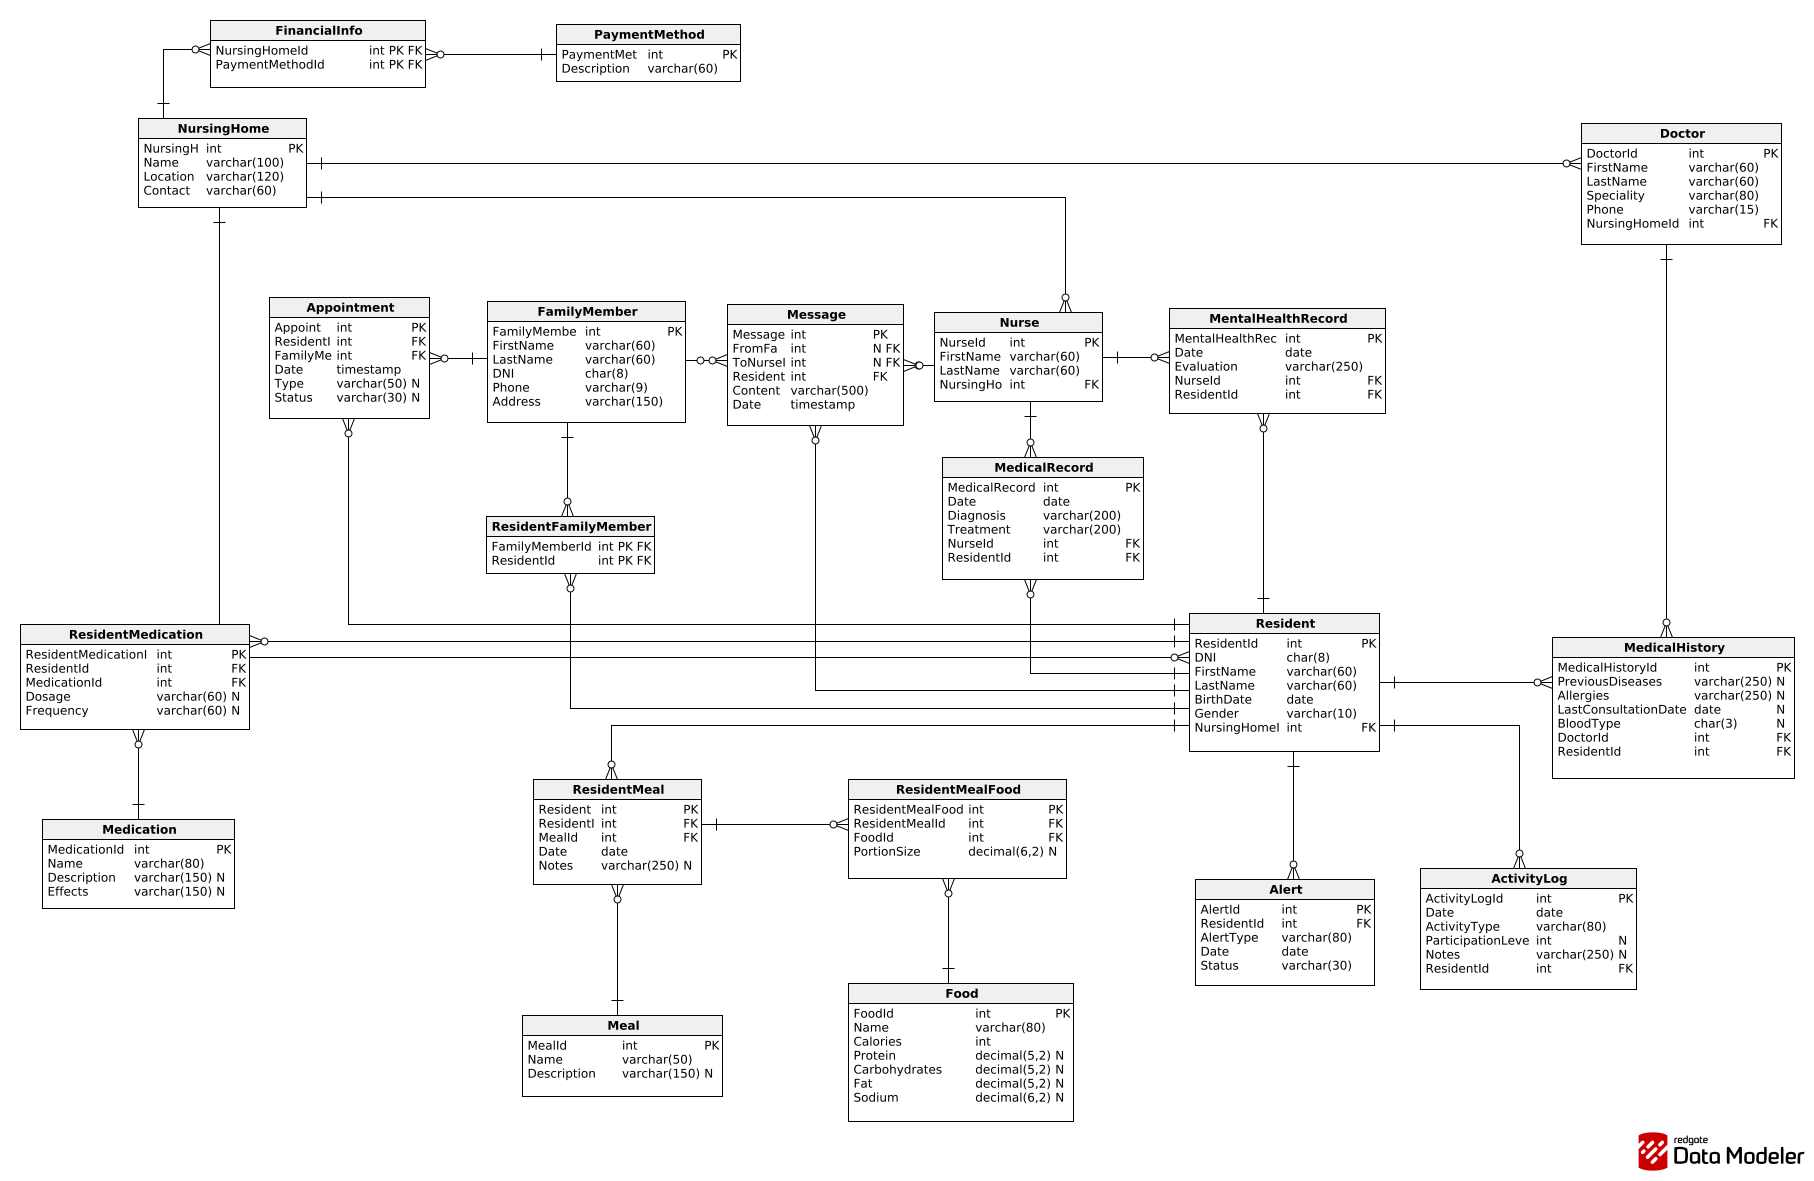
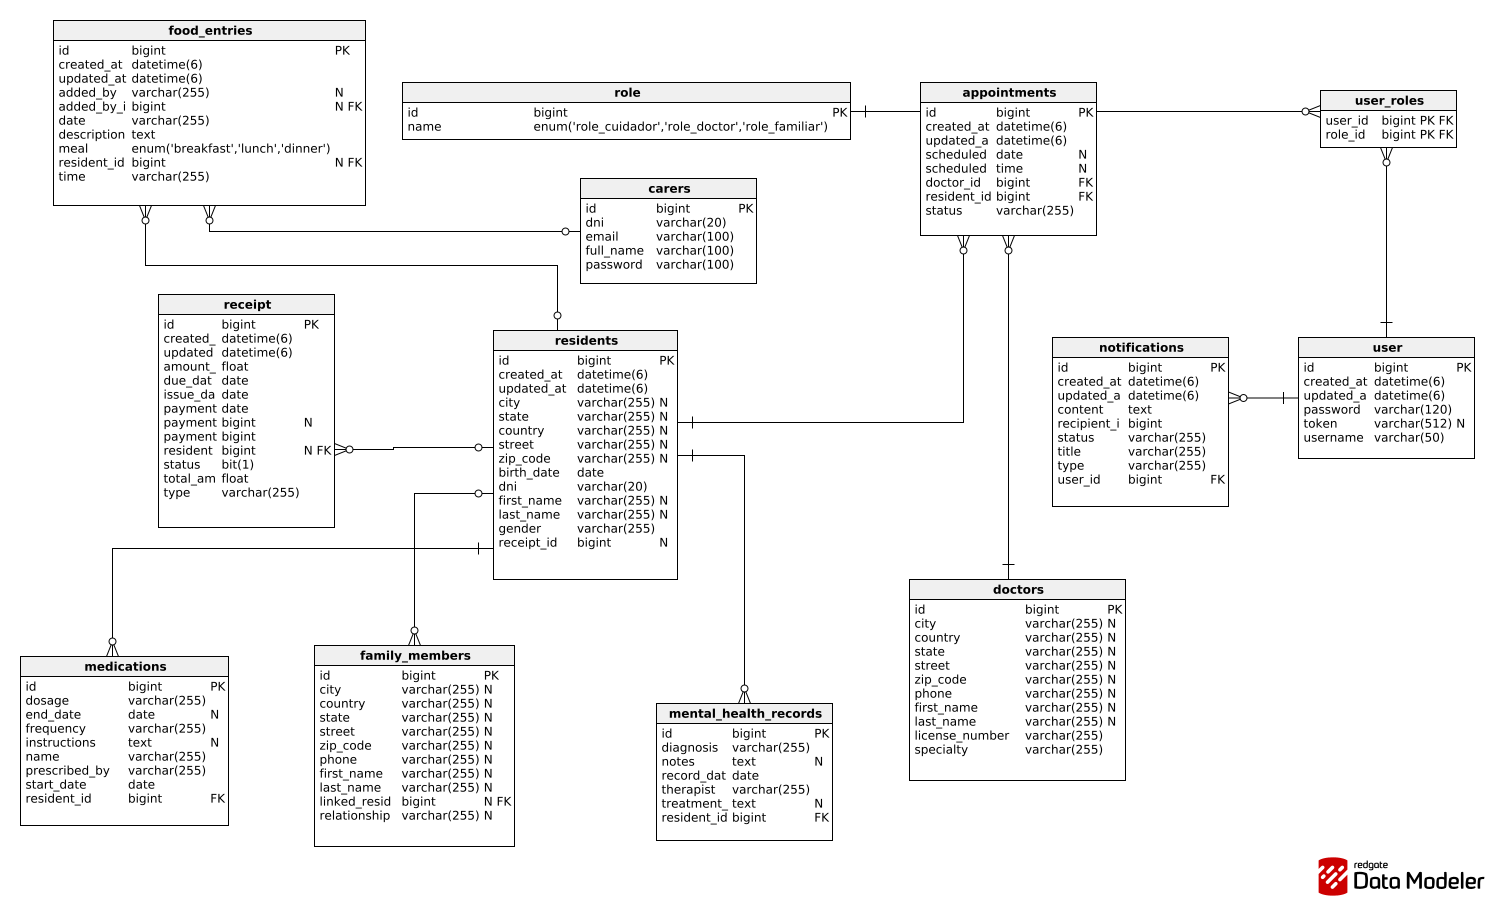
fix: db and ingesta diagram

diff --git a/docs/chapter04.md b/docs/chapter04.md
@@ -86,7 +86,7 @@ Se muestra el diagrama de estado que representa los estados posibles de un resid
 
 El modelo relacional propuesto organiza la información en entidades principales como Residente, Familiar, Enfermera, Médico y Hogar de Cuidado, garantizando la integridad de los datos mediante claves primarias y foráneas. Además, se incluyen tablas específicas para gestionar historiales médicos, registros de salud mental, medicamentos y actividades. El modelo también contempla funcionalidades clave como la comunicación entre familiares y cuidadores, la gestión de alertas de salud y la programación de citas, lo que permite una administración estructurada y consistente de la información.
 
-<img src="../assets/DBSeniorHub.png" alt="DataBaseDiagram"/>
+![Database](../assets/DBSeniorHub.png)
 
 #### 4.1.6	Design Patterns
 
